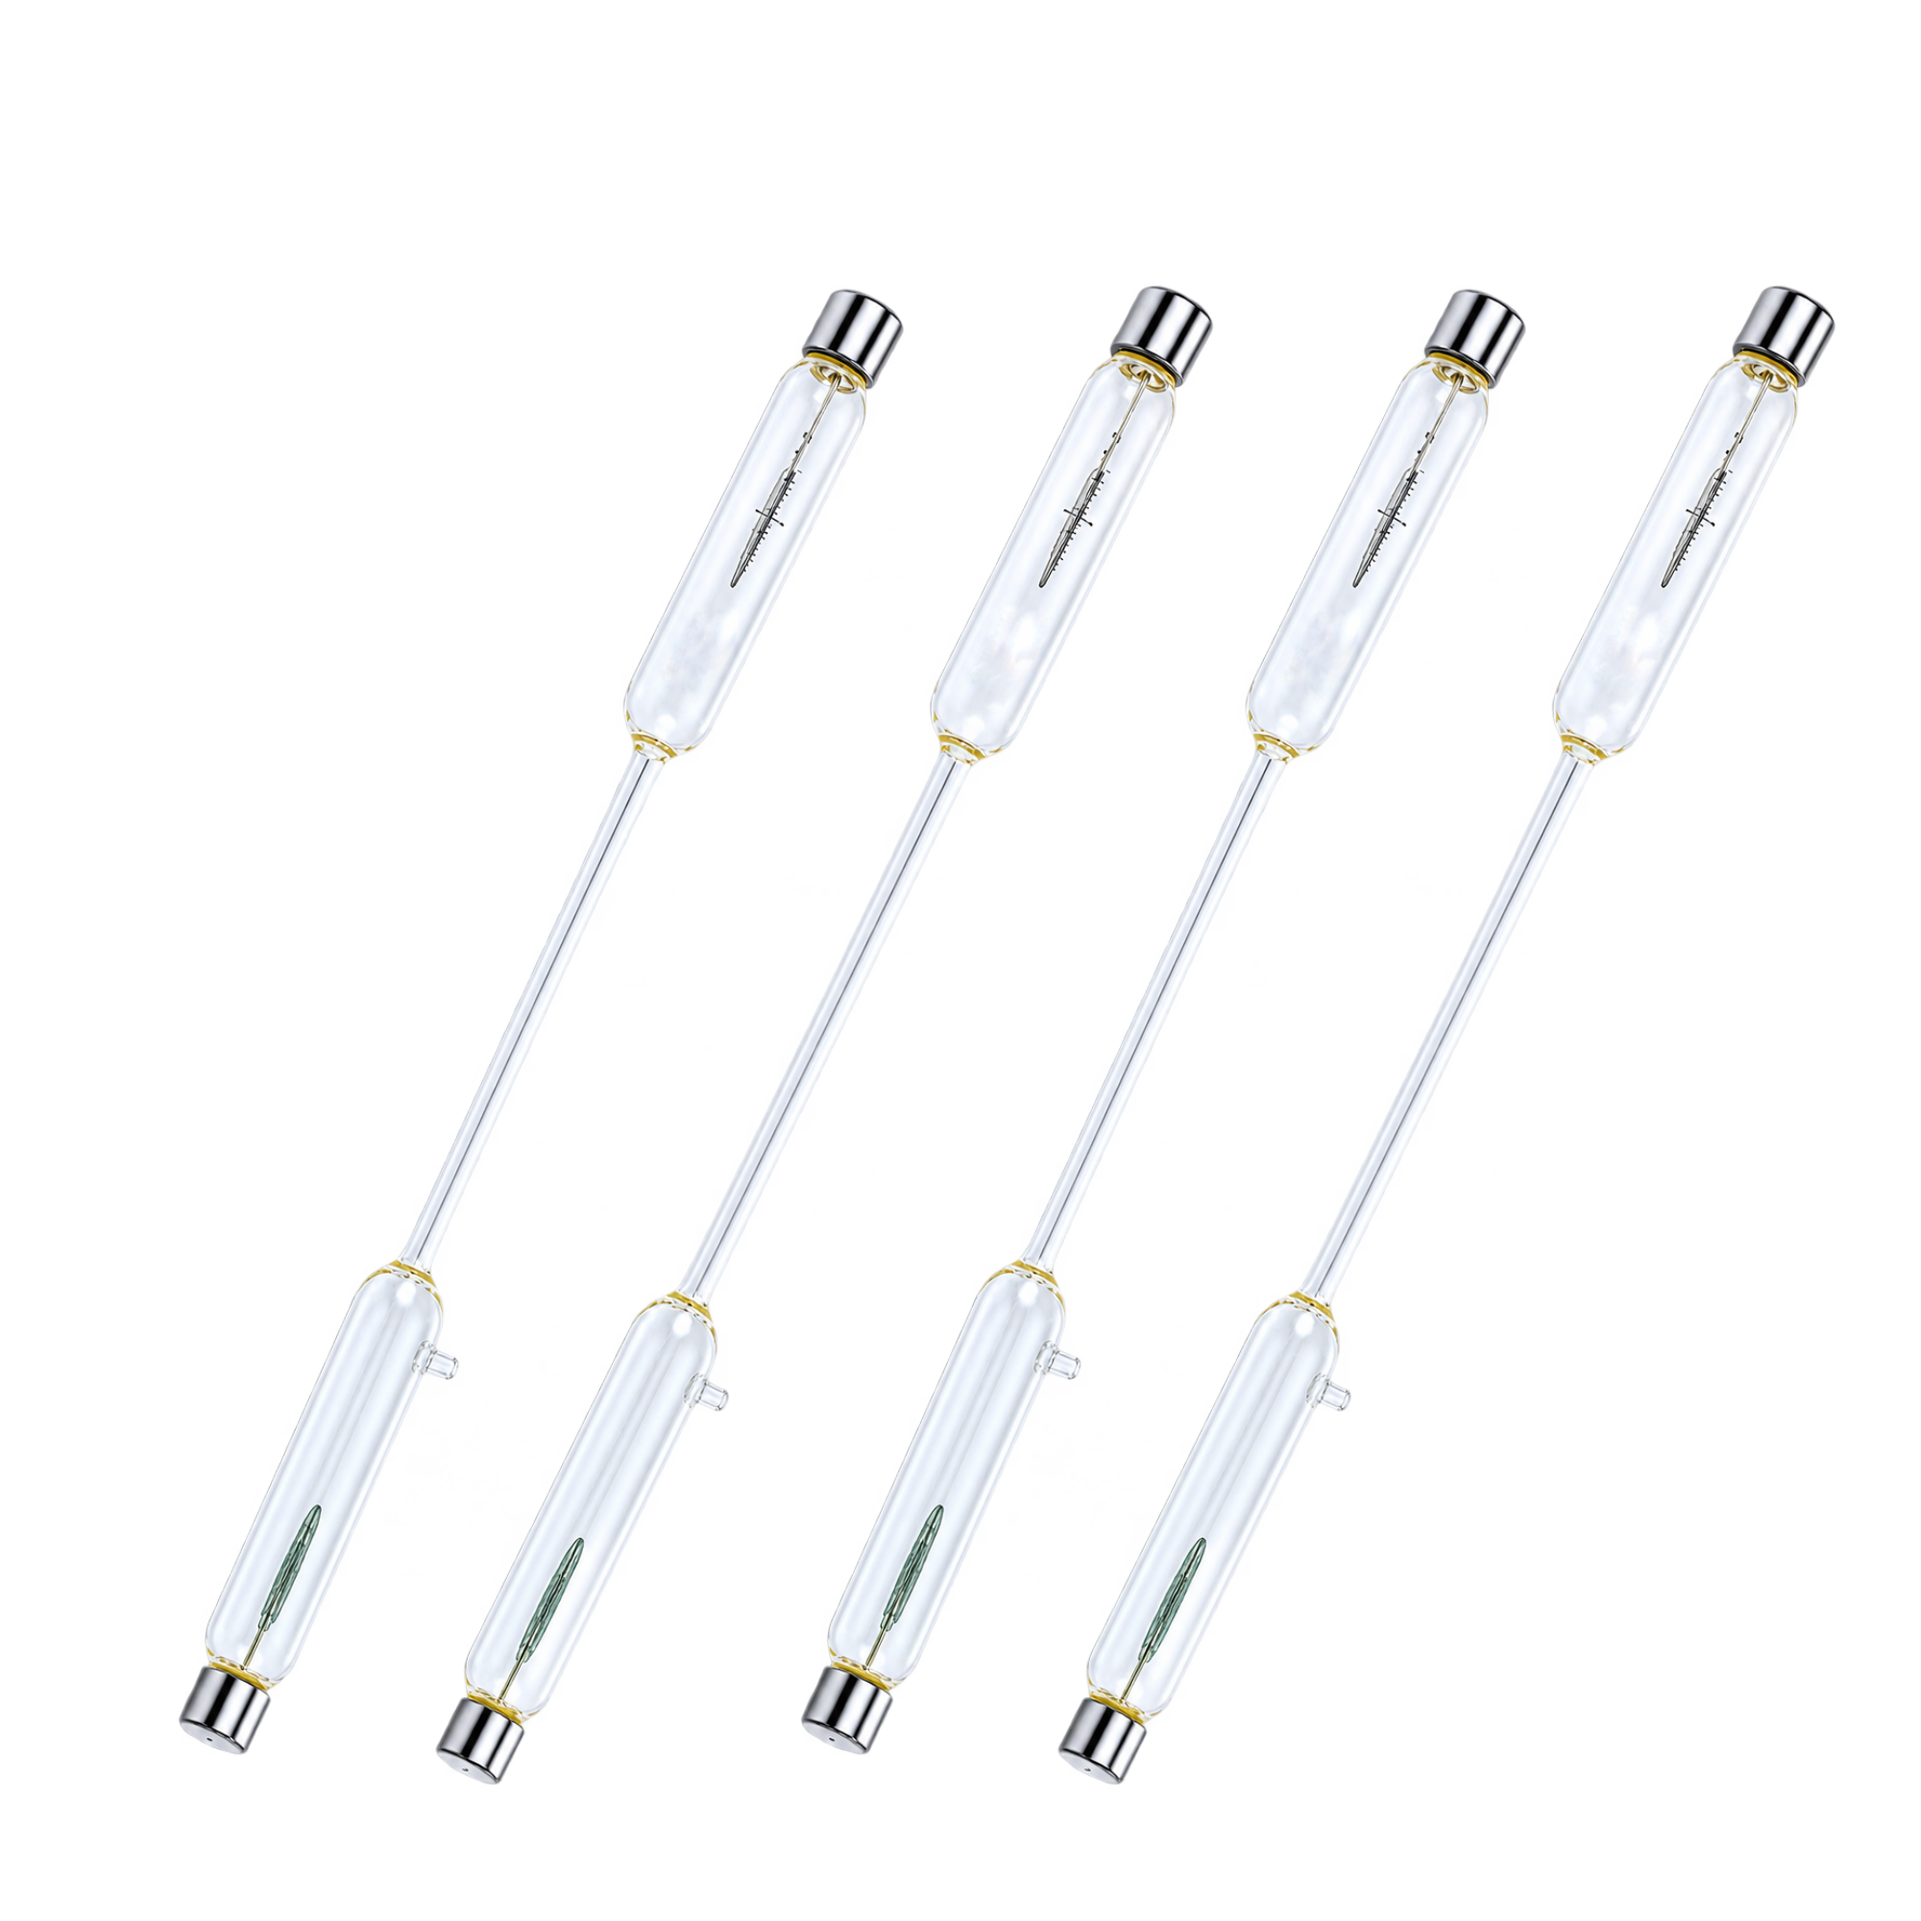
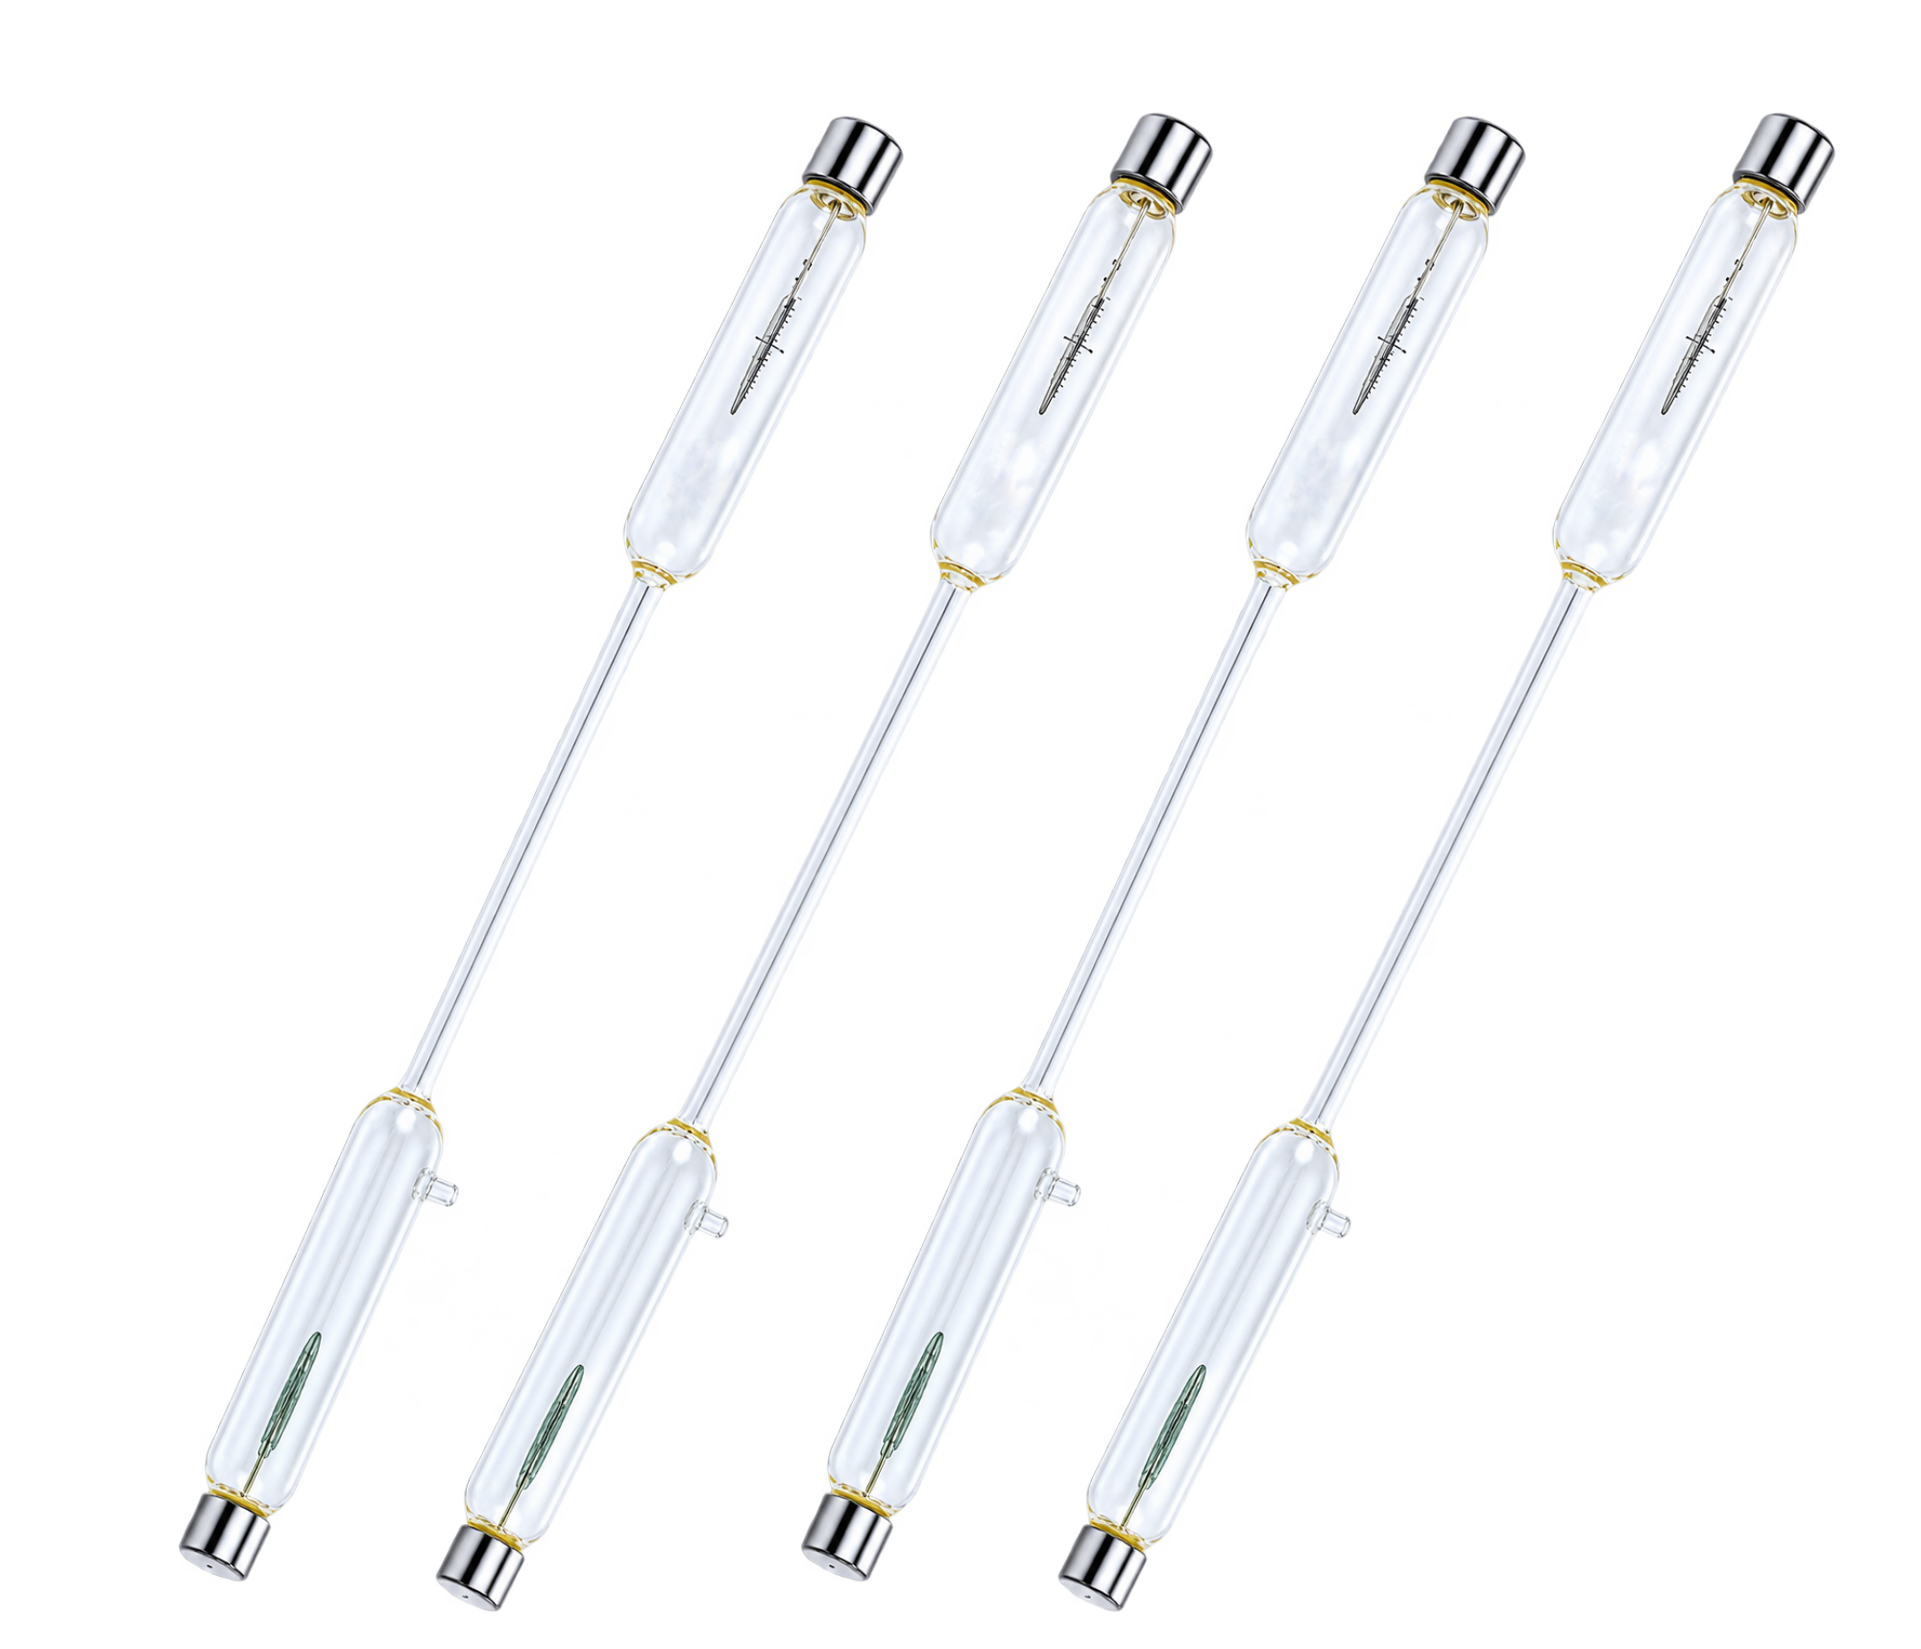
fixed the header and the images

diff --git a/frontend/src/components/landing/LandingPage.jsx b/frontend/src/components/landing/LandingPage.jsx
@@ -34,21 +34,21 @@ export default function LandingPage() {
   const [productCarouselPaused, setProductCarouselPaused] = useState(false);
   const heroSlides = [
     {
-      image: "/heroimages/export1.jpg",
+      image: "/header%20images/labglassware2.png",
       eyebrow: "Precision, Quality & Reliability In Every Piece.",
       title: "Premium Laboratory Glassware",
       description: "We provide reliable solutions for pharmaceutical, chemical, research and testing laboratories.",
       category: "glassware",
     },
     {
-      image: "/heroimages/export2.jpg",
+      image: "/header%20images/labinstrument2.png",
       eyebrow: "Precision, Quality & Reliability In Every Piece.",
       title: "Premium Laboratory Instruments",
       description: "Our instruments are developed to meet the requirements of modern laboratories across pharmaceutical, chemical, research and testing industries.",
       category: "lab-instruments",
     },
     {
-      image: "/heroimages/export3.jpg",
+      image: "/header%20images/filter%20and%20membrane2.png",
       eyebrow: "Precision, Purity & Performance in Every Filter Product",
       title: "Premium Filtration Products",
       description: "Syringe filters and membrane filters to Capsule, Cartridge Filters and SS Filter Housings. We provide dependable filtration solutions for diverse laboratory and industrial applications.",

diff --git a/frontend/src/components/landing/LandingPage.module.css b/frontend/src/components/landing/LandingPage.module.css
@@ -1540,6 +1540,15 @@
   object-fit: contain;
 }
 
+/* Give featured product imagery more room without enlarging the card copy. */
+.featuredProductsSection .productImageWrap {
+  height: 230px;
+}
+
+.featuredProductsSection .productImageWrap img {
+  max-height: 220px;
+}
+
 @media (prefers-reduced-motion: reduce) {
   .productsViewport { scroll-behavior: auto; }
 }
